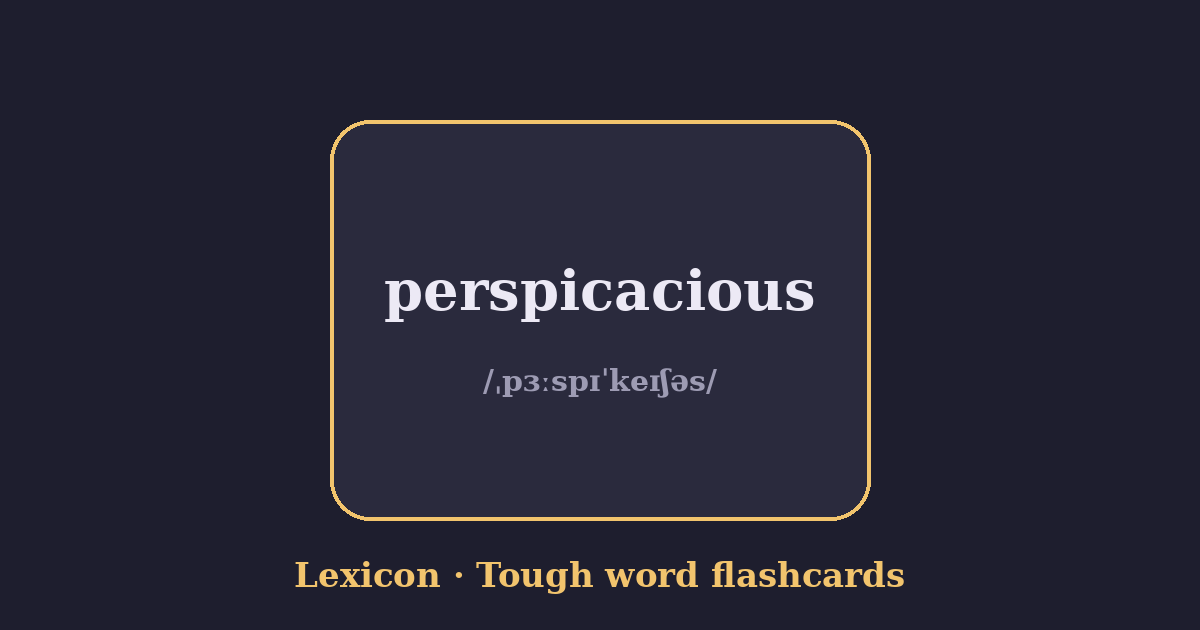
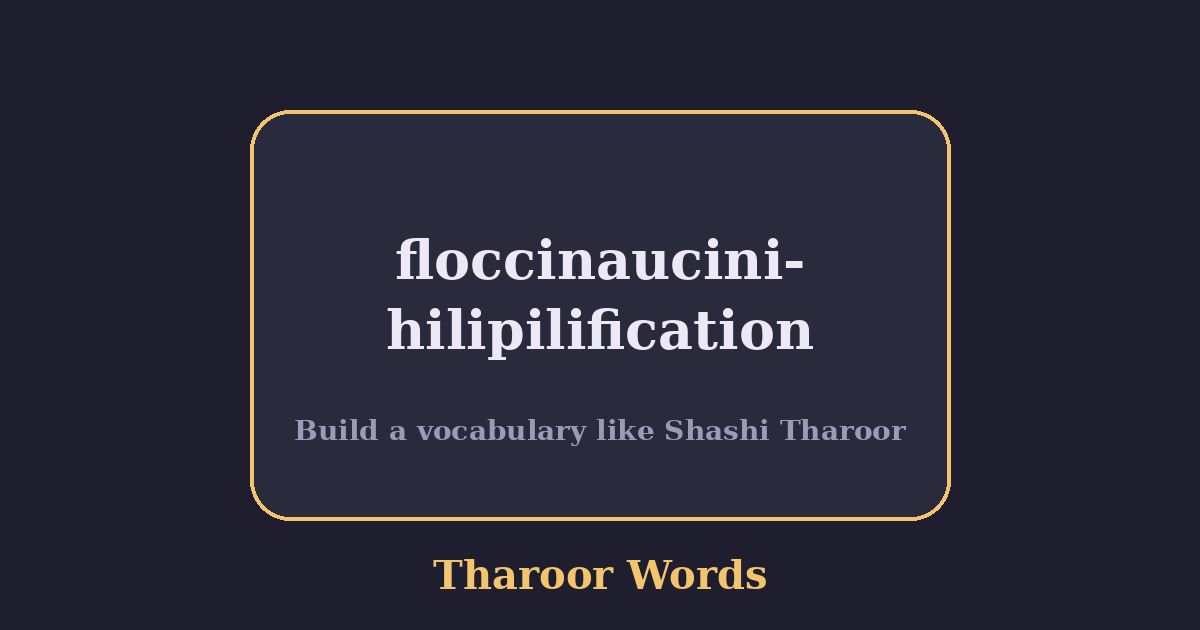
Tharoor

diff --git a/index.html b/index.html
@@ -3,8 +3,8 @@
 <head>
 <meta charset="utf-8">
 <meta name="viewport" content="width=device-width,initial-scale=1,viewport-fit=cover">
-<title>Lexicon – Tough Word Flashcards</title>
-<meta name="description" content="Flip through GRE/SAT-level vocabulary with pronunciations, definitions and examples. Works offline.">
+<title>Tharoor Words – Build a Vocabulary Like Shashi Tharoor</title>
+<meta name="description" content="Flashcards of rare, wonderful words in the spirit of Shashi Tharoor, with pronunciation, definitions and examples.">
 <meta name="theme-color" content="#1e1e2e">
 <link rel="manifest" href="manifest.json">
 <link rel="icon" href="icons/icon-192.png">
@@ -12,26 +12,28 @@
 <meta property="og:type" content="website">
 <meta property="og:url" content="https://new-word.suvadipchakraborty.workers.dev/">
 <link rel="canonical" href="https://new-word.suvadipchakraborty.workers.dev/">
-<meta property="og:title" content="Lexicon – Tough Word Flashcards">
-<meta property="og:description" content="Flip through GRE/SAT-level vocabulary with pronunciations, definitions and examples.">
+<meta property="og:title" content="Tharoor Words – Build a Vocabulary Like Shashi Tharoor">
+<meta property="og:description" content="Flashcards of rare, wonderful words in the spirit of Shashi Tharoor, with pronunciation, definitions and examples.">
 <meta property="og:image" content="https://new-word.suvadipchakraborty.workers.dev/preview.png">
 <meta property="og:image:width" content="1200"><meta property="og:image:height" content="630">
 <meta name="twitter:card" content="summary_large_image">
-<meta name="twitter:title" content="Lexicon – Tough Word Flashcards">
+<meta name="twitter:title" content="Tharoor Words – Build a Vocabulary Like Shashi Tharoor">
 <meta name="twitter:description" content="GRE/SAT-level vocabulary flashcards that work offline.">
 <meta name="twitter:image" content="https://new-word.suvadipchakraborty.workers.dev/preview.png">
 <link rel="stylesheet" href="styles.css">
 </head>
 <body>
 <header>
-  <h1>Lexicon</h1>
+  <h1>Tharoor Words</h1>
   <button id="install" hidden>Install app</button>
 </header>
+<p class="tag">Build a vocabulary like Shashi Tharoor, one uncommon word at a time.</p>
 <main>
   <section id="home" class="tab active">
     <div class="stats"><span id="statText"></span><div class="bar"><i id="barFill"></i></div></div>
     <div class="chips" id="filters">
       <button data-f="all" class="on">All</button><button data-f="fav">Saved</button><button data-f="mast">Mastered</button>
+      <button data-f="tha">Tharoorian</button>
       <button id="shuffle" aria-pressed="false">Shuffle</button>
     </div>
     <p id="counter" class="counter"></p>
@@ -56,13 +58,15 @@
     <div class="nav"><button id="prev">← Previous</button><button id="next" class="primary">Next word →</button></div>
   </section>
   <section id="about" class="tab">
-    <h2>About Lexicon</h2>
-    <p>Lexicon is a free flashcard app for hard English words. Each card shows the word, how to say it, and a full definition with example sentences.</p>
+    <h2>About Tharoor Words</h2>
+    <p>Shashi Tharoor, the author and politician, is famous for sprinkling rare words such as <em>floccinaucinihilipilification</em>, <em>farrago</em> and <em>rodomontade</em> into his writing and speeches. This app helps you build a vocabulary with the same flair. Each card gives the word, how to say it, and a definition with examples.</p>
+    <p>The <strong>Tharoorian</strong> filter collects the showpiece words in that spirit. The rest are classic GRE and SAT words.</p>
     <h3>How to study</h3>
     <p>Say the word aloud, guess its meaning, then tap the card to check. Swipe left or right to move on. Save tricky words, and mark a word as mastered once you know it. Use the Saved and Mastered filters to review. Good for GRE, SAT and everyday vocabulary.</p>
     <h3>Add your own words</h3>
     <p>Fork the repository, edit <code>words.csv</code> (columns: <code>word,difficulty,category</code>), and deploy to Cloudflare Pages. Definitions load automatically.</p>
     <h3>Credits</h3>
+    <p>This is an unofficial fan project. It is not affiliated with or endorsed by Shashi Tharoor.</p>
     <p>Definitions and audio come from the <a href="https://dictionaryapi.dev" target="_blank" rel="noopener">Free Dictionary API</a>. Looked-up words are saved on your device so they work offline.</p>
   </section>
 </main>

diff --git a/app.js b/app.js
@@ -45,7 +45,7 @@ async function getDef(w){
 }
 
 function buildList(){
-  list=all.filter(w=>filter==='all'||(filter==='fav'&&favs.has(w.word))||(filter==='mast'&&mast.has(w.word)));
+  list=all.filter(w=>filter==='all'||(filter==='fav'&&favs.has(w.word))||(filter==='mast'&&mast.has(w.word))||(filter==='tha'&&w.category==='Tharoorian'));
 }
 function pickNext(){
   const un=list.filter(w=>!seen.has(w.word));if(!un.length)return null;
@@ -69,7 +69,7 @@ async function render(keep){
   $$('.actions button').forEach(b=>b.disabled=!w);
   if(!w){
     $('#counter').textContent='';
-    $('#empty').textContent=!list.length?(filter==='fav'?'No saved words yet. Tap Save on a card to keep it here.':'No mastered words yet. Tap Mastered when you know a word.'):'You have seen every word in this set this session. Start a new session to go through them again.';
+    $('#empty').textContent=!list.length?(filter==='fav'?'No saved words yet. Tap Save on a card to keep it here.':filter==='mast'?'No mastered words yet. Tap Mastered when you know a word.':'No words in this set.'):'You have seen every word in this set this session. Start a new session to go through them again.';
     return;
   }
   seen.add(w.word);saveSeen();
@@ -128,8 +128,8 @@ $$('.tabs button').forEach(b=>b.onclick=()=>{
   $$('.tab').forEach(t=>t.classList.toggle('active',t.id===b.dataset.t));scrollTo(0,0)});
 $('#share').onclick=async()=>{
   const d=cur&&cur.def,def=d&&d.meanings[0]?d.meanings[0].defs[0]:'';
-  const text=cur?`${cur.word}${d&&d.phonetic?' '+d.phonetic:''}${def?' – '+def:''}`:'Lexicon vocabulary flashcards';
-  const data={title:'Lexicon',text,url:location.href.split('#')[0]};
+  const text=cur?`${cur.word}${d&&d.phonetic?' '+d.phonetic:''}${def?' – '+def:''}`:'Tharoor Words: build a vocabulary like Shashi Tharoor';
+  const data={title:'Tharoor Words',text,url:location.href.split('#')[0]};
   try{if(navigator.share)await navigator.share(data);else{await navigator.clipboard.writeText(`${text}\n${data.url}`);toast('Copied to clipboard')}}
   catch(e){if(e.name!=='AbortError')toast('Could not share')}
 };

diff --git a/sw.js b/sw.js
@@ -1,4 +1,4 @@
-const V='lexicon-v3',SHELL=['./','index.html','styles.css','app.js','words.csv','manifest.json','icons/icon-192.png','icons/icon-512.png','preview.png'];
+const V='lexicon-v4',SHELL=['./','index.html','styles.css','app.js','words.csv','manifest.json','icons/icon-192.png','icons/icon-512.png','preview.png'];
 self.addEventListener('install',e=>{e.waitUntil(caches.open(V).then(c=>c.addAll(SHELL)).then(()=>self.skipWaiting()))});
 self.addEventListener('activate',e=>{e.waitUntil(caches.keys().then(k=>Promise.all(k.filter(x=>x!==V).map(x=>caches.delete(x)))).then(()=>self.clients.claim()))});
 self.addEventListener('fetch',e=>{

diff --git a/styles.css b/styles.css
@@ -46,3 +46,5 @@ code{background:var(--surf);padding:1px 6px;border-radius:6px}a{color:var(--acc)
 #toast{position:fixed;left:50%;bottom:90px;transform:translate(-50%,20px);background:var(--tx);color:var(--bg);padding:10px 18px;border-radius:999px;opacity:0;pointer-events:none;transition:.25s}
 #toast.show{opacity:1;transform:translate(-50%,0)}
 @media(prefers-reduced-motion:reduce){*{transition:none!important}}
+.tag{max-width:560px;margin:-6px auto 14px;padding:0 20px;color:var(--mut);font:italic .95rem Georgia,serif}
+h1{font-size:1.35rem}

diff --git a/README.md b/README.md
@@ -1,4 +1,6 @@
-# Lexicon – Vocabulary Flashcards
+# Tharoor Words
+
+Unofficial fan flashcards for building a Shashi Tharoor-style vocabulary. Words in the `Tharoorian` category feed the Tharoorian filter.
 
 Zero-build PWA: plain HTML, CSS and JS. Definitions and audio come from the [Free Dictionary API](https://dictionaryapi.dev).
 
@@ -8,7 +10,7 @@ Open `words.csv` and add one word per line using the columns `word,difficulty,ca
 
     ubiquitous,Advanced,General
 
-If you change shell files (`app.js`, `styles.css`, etc.), bump `V` in `sw.js` (e.g. `lexicon-v3`) so returning users get the update.
+If you change shell files (`app.js`, `styles.css`, etc.), bump `V` in `sw.js` (e.g. `lexicon-v5`) so returning users get the update.
 
 ## Deploy to Cloudflare Pages
 Push this folder to GitHub. In Cloudflare Pages, connect the repo, leave the build command empty and set the output directory to `/`.
